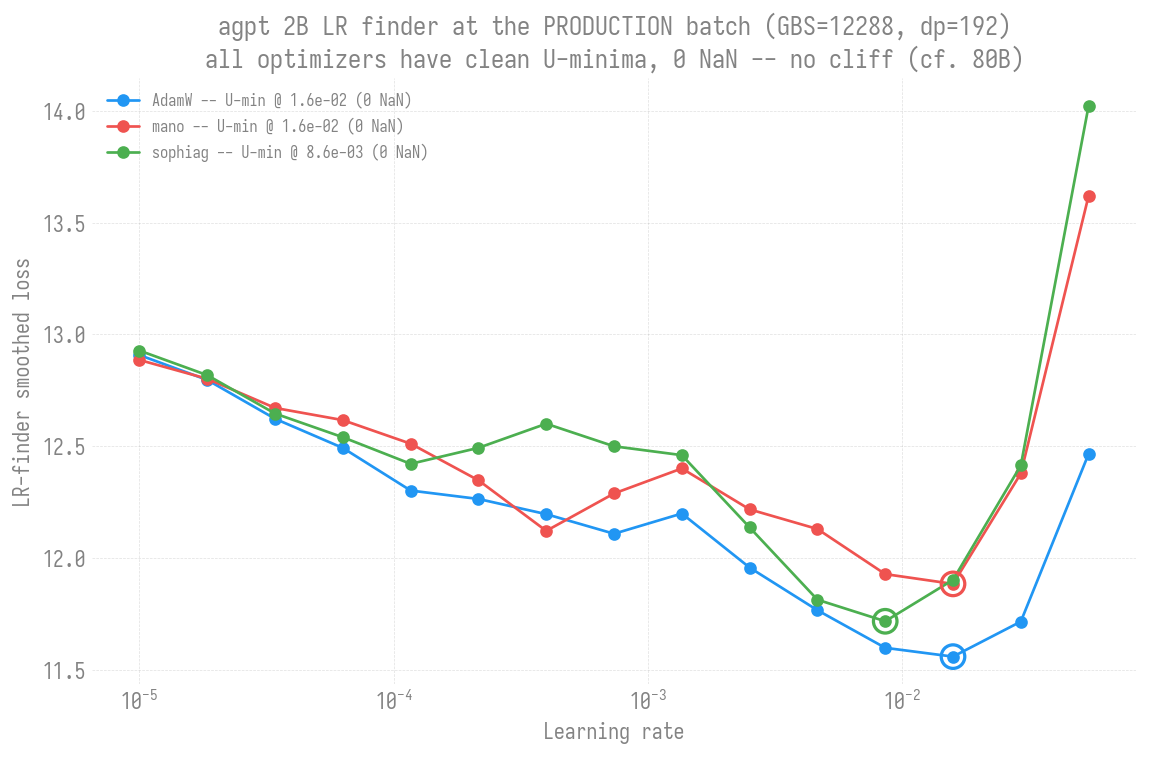
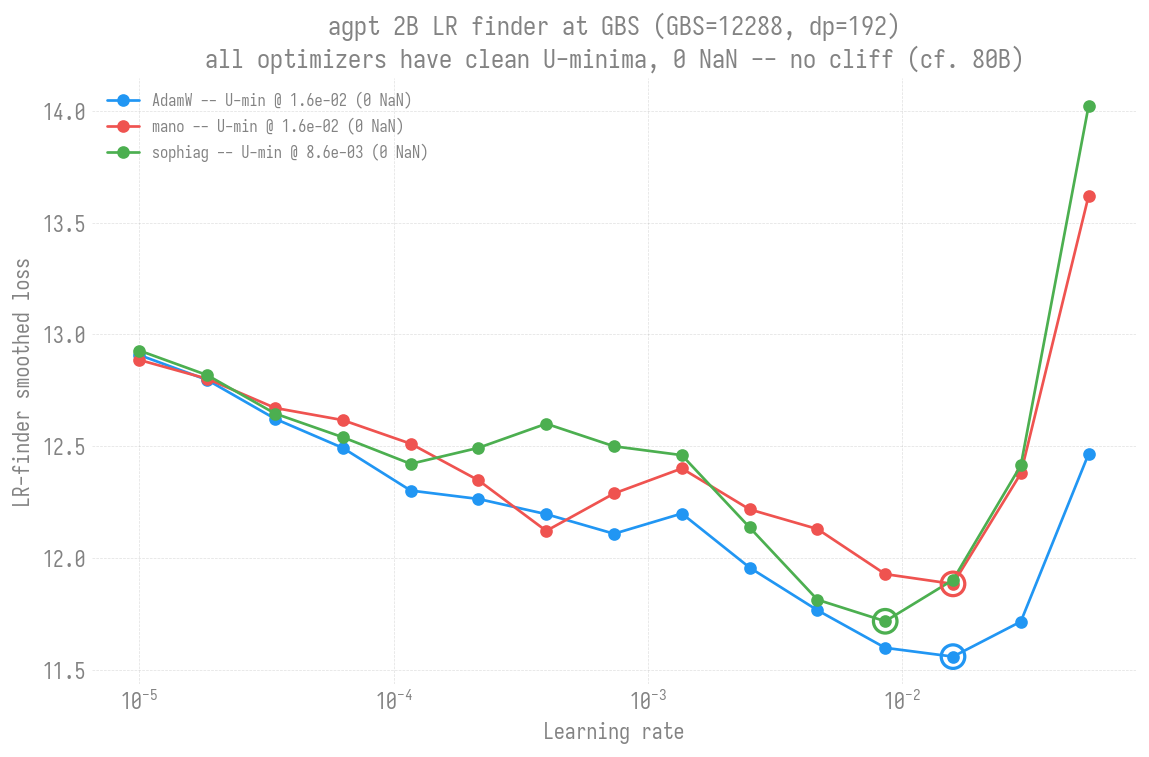
fix(ezpz/lr-finder): correct "production batch" -- it is GBS=6144, not 12288
I had labeled GBS=12288 as "the 2B production batch". Wrong: GBS=6144 is the
common production batch (2B 256N chain + ALL 80B runs); 12288 is the 2B 512N
chain and 24576 the 1024N chain. The error was in the agpt index 2B
subsection, the 2b page (ladder note, results-table prod markers, the
all-optimizer figure + "2x production" phrasing).

Fix (keeps ALL data/figures -- only the "production" LABEL moves to 6144):
- agpt/README.md: 2B production subsection now shows the GBS=6144 table
  (adamw 8.6e-3 / mano 1.6e-2 / sophiag 1.4e-3); notes 12288/24576 as the
  larger 512N/1024N chains; sophiag headroom recomputed (~60x vs 2.28e-5).
- agpt/2b/README.md: ladder note, table markers (6144=prod/256N,
  12288=512N, 24576=1024N), "4x the GBS=6144 production batch" phrasing.
- Lead the figure section with the new GBS=6144 all-optimizer figure; KEEP
  the GBS=12288 figure as a larger-batch confirmation (per request -- the
  12288 data/figure stays, just not called "production").
- plot_lr_trend.py: plot_2b_all_optimizers default 6144; emits both 6144 and
  12288; only 6144 titled "PRODUCTION batch".

80B production (GBS=6144) was already correct everywhere.

Changed region(s): [[0.1828, 0.0, 0.8834, 0.0608]]

diff --git a/torchtitan/experiments/ezpz/scripts/plot_lr_trend.py b/torchtitan/experiments/ezpz/scripts/plot_lr_trend.py
@@ -204,7 +204,7 @@ def _min(lrs, losses):
 # ---------------------------------------------------------------------------
 # Regenerate the 4 existing figures with house style (were raw matplotlib).
 # ---------------------------------------------------------------------------
-def plot_2b_all_optimizers(out: Path, gbs: int = 12288) -> None:
+def plot_2b_all_optimizers(out: Path, gbs: int = 6144) -> None:
     fig, ax = plt.subplots(figsize=(9, 6))
     specs = [("adamw", "AdamW"), ("mano", "mano"), ("sophiag", "sophiag")]
     for opt, lab in specs:
@@ -219,7 +219,10 @@ def plot_2b_all_optimizers(out: Path, gbs: int = 12288) -> None:
     ax.set_xscale("log")
     ax.set_xlabel("Learning rate")
     ax.set_ylabel("LR-finder smoothed loss")
-    ax.set_title(f"agpt 2B LR finder at the PRODUCTION batch (GBS={gbs}, dp=192)\n"
+    # 6144 is the common production batch (2B 256N + all 80B); larger GBS are
+    # the 2B 512N/1024N chains. Only label 6144 as "production".
+    tag = "the PRODUCTION batch" if gbs == 6144 else "GBS"
+    ax.set_title(f"agpt 2B LR finder at {tag} (GBS={gbs}, dp=192)\n"
                  "all optimizers have clean U-minima, 0 NaN -- no cliff (cf. 80B)")
     ax.legend(fontsize=9)
     fig.tight_layout()
@@ -343,7 +346,10 @@ if __name__ == "__main__":
         DOCS / "2b/figures/lr_finder_2b_minlr_vs_gbs_all_optimizers.png")
     plot_loss_vs_lr_by_gbs_80b(DOCS / "80b/figures/sunspot_80b_adamw_loss_vs_lr_by_gbs.png")
     # RESTYLED: the 4 existing figures, now through the house stylesheet
-    plot_2b_all_optimizers(DOCS / "2b/figures/lr_finder_2b_gbs12288_all_optimizers.png")
+    plot_2b_all_optimizers(
+        DOCS / "2b/figures/lr_finder_2b_gbs6144_all_optimizers.png", 6144)
+    plot_2b_all_optimizers(
+        DOCS / "2b/figures/lr_finder_2b_gbs12288_all_optimizers.png", 12288)
     plot_80b_all_optimizers(DOCS / "80b/figures/sunspot_80b_gbs6144_all_optimizers.png")
     plot_ceiling_overlay_2b_vs_80b(DOCS / "2b/figures/lr_ceiling_vs_gbs_2b_vs_80b.png")
     plot_80b_ceiling_vs_gbs(DOCS / "80b/figures/sunspot_80b_adamw_lr_ceiling_vs_gbs.png")

diff --git a/torchtitan/experiments/ezpz/docs/experiments/lr-finder/agpt/2b/README.md b/torchtitan/experiments/ezpz/docs/experiments/lr-finder/agpt/2b/README.md
@@ -27,7 +27,8 @@ differing). Each GBS swept adamw + mano + sophiag (muon dropped -- it crashes
 every job via a oneCCL collective abort; use `torchmuon` if needed).
 
 - LR range 1e-5 -> 1e-1 (2B optimal ~1e-2, ~100x higher than 80B).
-- GBS ladder 192 .. 24576 (12288 = 2B production, 24576 = 2x production).
+- GBS ladder 192 .. 24576 (6144 = common production batch / 2B 256N + all
+  80B; 12288 = 2B 512N, 24576 = 2B 1024N).
 - Jobs 12469769-776, isolated dumps `outputs/lrtrend-2b/gbs<N>/`.
 
 ### Result: 2B never cliffs
@@ -44,7 +45,8 @@ every job via a oneCCL collective abort; use `torchmuon` if needed).
 
 Every point is a clean U-min with **0 NaN** -- across a **128x** batch range.
 The AdamW usable LR sits flat at ~1e-2 the whole way; there is no collapse and
-no divergence cliff, even at 2x the production batch.
+no divergence cliff, all the way out to GBS=24576 (4x the GBS=6144 production
+batch).
 
 All three optimizers ran to completion (15/15, 0 NaN) at all 8 batch sizes.
 
@@ -55,9 +57,9 @@ All three optimizers ran to completion (15/15, 0 NaN) at all 8 batch sizes.
 | 768   | 1.6e-2 | 11.68 | 8.6e-3 | 7.4e-4 |
 | 1536  | 8.6e-3 | 11.53 | 8.6e-3 | 8.6e-3 |
 | 3072  | 8.6e-3 | 11.53 | 8.6e-3 | 8.6e-3 |
-| 6144  | 8.6e-3 | 11.57 | 1.6e-2 | 1.4e-3 |
-| **12288** (prod) | 1.6e-2 | 11.56 | 1.6e-2 | 8.6e-3 |
-| **24576** (2x prod) | 1.6e-2 | 11.63 | 8.6e-3 | 8.6e-3 |
+| **6144** (prod / 256N) | 8.6e-3 | 11.57 | 1.6e-2 | 1.4e-3 |
+| 12288 (512N chain) | 1.6e-2 | 11.56 | 1.6e-2 | 8.6e-3 |
+| 24576 (1024N chain) | 1.6e-2 | 11.63 | 8.6e-3 | 8.6e-3 |
 
 [1] sophiag's auto-detected min-LR is noisy at small batch (the
 derivative-based detector latches onto early-curve noise, the same artifact
@@ -65,10 +67,15 @@ seen in the MoE finder) -- it reads 1e-4..1e-3 at GBS<=768 but the curves
 show the real basin is ~1e-2 once the batch is large enough to sharpen the U
 (GBS>=1536). See the per-optimizer figures below.
 
-All three optimizers at the 2B production batch -- every curve is a clean
-U-min that turns back up, 0 NaN (contrast the
-[80B production-batch figure](../80b/README.md#headline-result-all-four-optimizers-at-the-production-batch),
+All three optimizers at the production batch (GBS=6144, the common 2B 256N +
+80B batch) -- every curve is a clean U-min that turns back up, 0 NaN (contrast
+the [80B production-batch figure](../80b/README.md#headline-result-all-four-optimizers-at-the-production-batch),
 where AdamW cliffs to NaN):
+
+![2B all optimizers at GBS=6144](figures/lr_finder_2b_gbs6144_all_optimizers.png)
+
+The same holds at the larger 2B 512N batch (GBS=12288) -- still a clean U-min
+for all three, confirming the batch-independence past the common batch:
 
 ![2B all optimizers at GBS=12288](figures/lr_finder_2b_gbs12288_all_optimizers.png)
 

diff --git a/torchtitan/experiments/ezpz/docs/experiments/lr-finder/agpt/README.md b/torchtitan/experiments/ezpz/docs/experiments/lr-finder/agpt/README.md
@@ -35,20 +35,21 @@ small-batch table as a rough starting point for *small* runs only.
 production optimizer, sophiag a viable second.** Full detail + the
 LR-ceiling-vs-GBS trend: [agpt 80B](80b/README.md).
 
-### 2B at the production batch (GBS=12288) -- the validated guidance
+### 2B at the production batch (GBS=6144) -- the validated guidance
 
-All three optimizers are clean U-mins with 0 NaN at the 2B production batch
-(no cliff -- 2B is batch-independent across GBS 192..24576, the collapse is
-large-model-specific):
+GBS=6144 is the common production batch (the 2B 256N chain and all 80B runs).
+The 2B chains also run larger: GBS=12288 (512N) and 24576 (1024N) -- 2B is
+batch-independent across the whole 192..24576 range (clean U-min, 0 NaN
+everywhere; no cliff -- the collapse is large-model-specific). At GBS=6144:
 
-| Optimizer @ GBS=12288 | min LR | min loss | suggested (min/10) |
+| Optimizer @ GBS=6144 | min LR | min loss | suggested (min/10) |
 |---|---|---|---|
-| AdamW | 1.6e-2 | 11.56 | ~1.6e-3 |
-| mano | 1.6e-2 | 11.89 | ~1.6e-3 |
-| sophiag | 8.6e-3 | 11.72 | ~8.6e-4 |
+| AdamW | 8.6e-3 | 11.57 | ~8.6e-4 |
+| mano | 1.6e-2 | 11.71 | ~1.6e-3 |
+| sophiag | 1.4e-3 | 12.29 | ~1.4e-4 |
 
-Note: 2B production currently runs sophiag at **LR=2.28e-5**, which is ~40x
-below the finder's suggested ~8.6e-4 -- i.e. there is substantial LR headroom
+Note: 2B production currently runs sophiag at **LR=2.28e-5**, which is ~60x
+below the finder's suggested ~1.4e-3 -- i.e. there is substantial LR headroom
 at this batch (consistent with small models being forgiving). Worth a
 convergence A/B before changing a live run, but the finder says a higher 2B
 LR is safe. Full per-GBS detail: [agpt 2B](2b/README.md).
